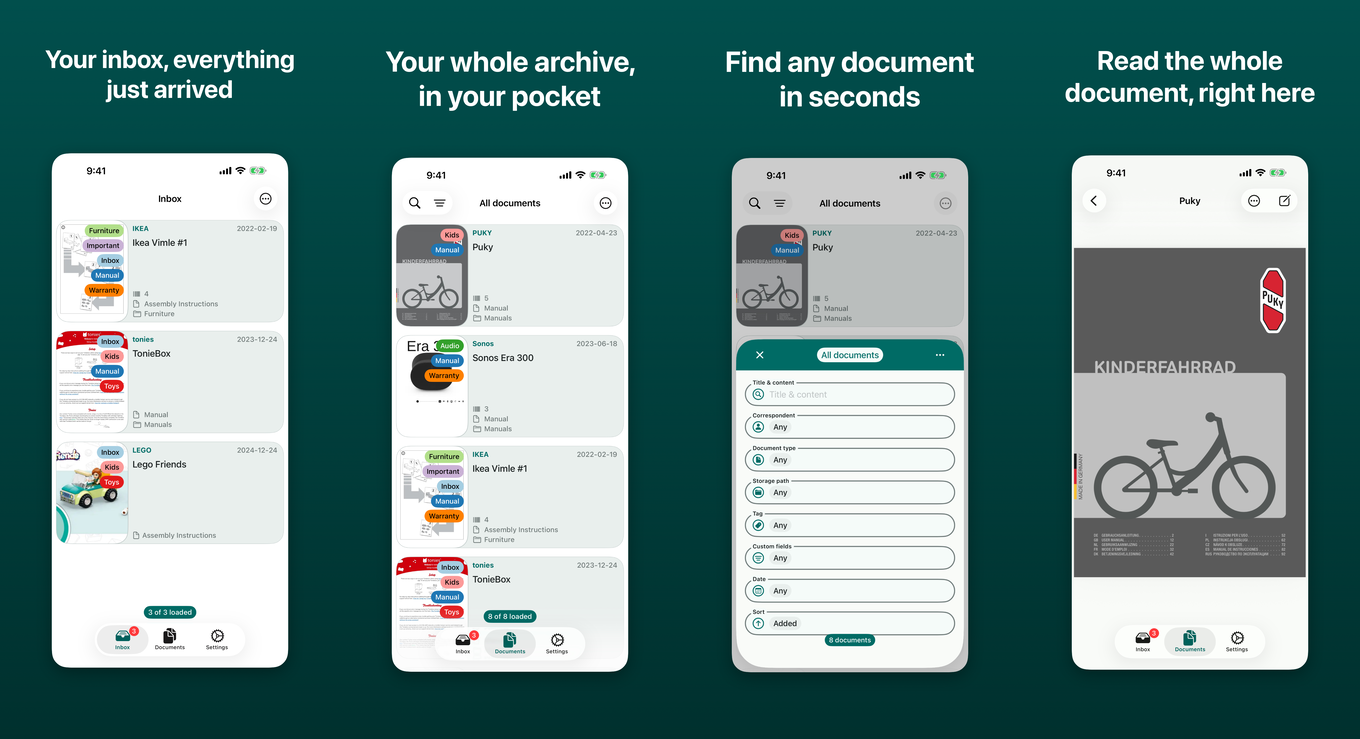
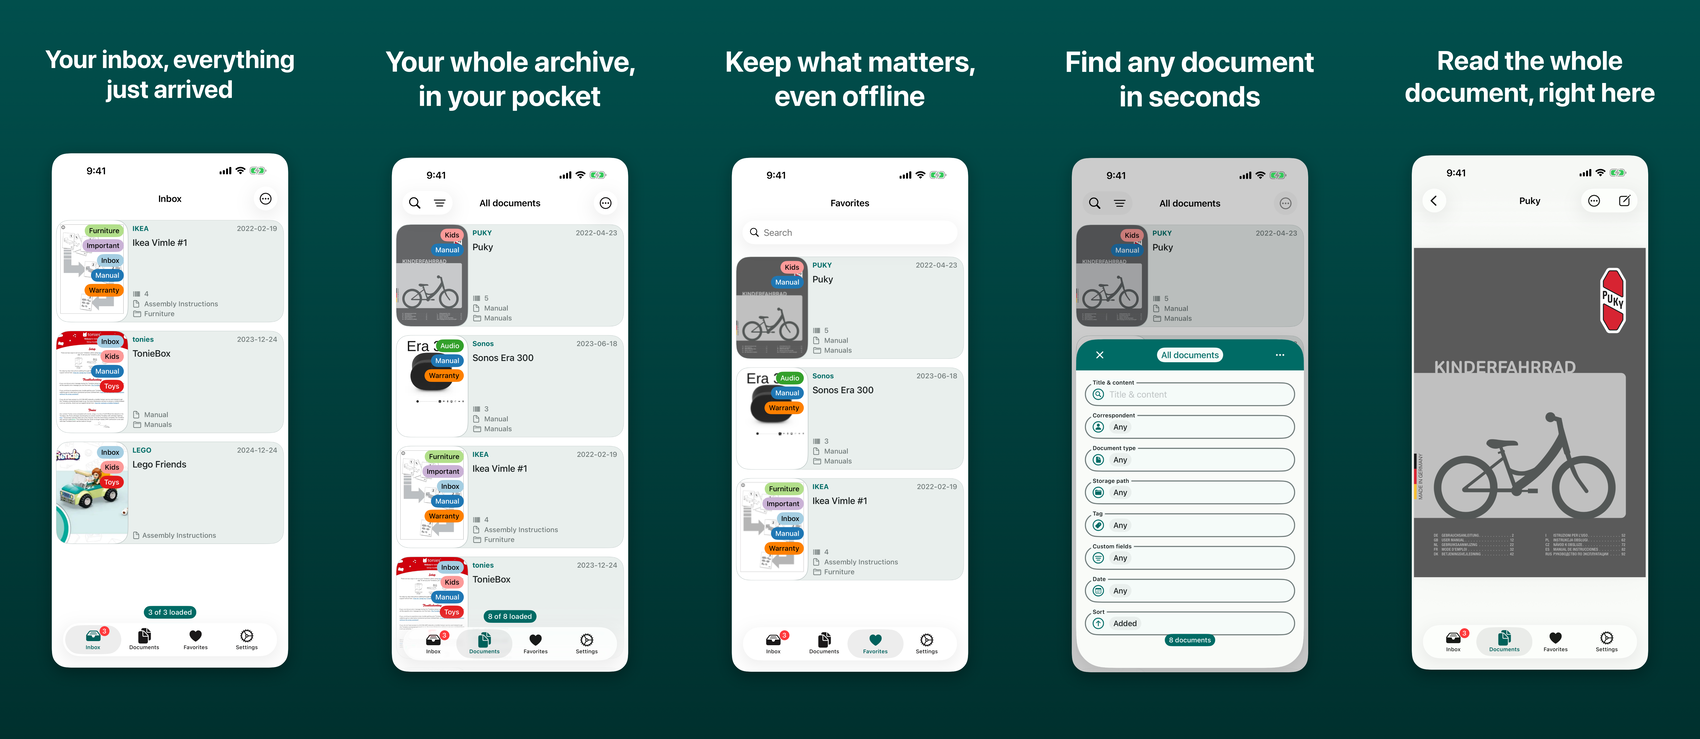
docs: re-shoot the strip, and put Favorites in it
The captures behind it showed a three-tab bar, which stopped being true the
moment Favorites existed. Re-recorded, and the strip now carries five panels
rather than four: the new one is the offline list, placed third so the image
says what arrives, what is kept, what is stored offline, how it is found,
and what reading one looks like.

Claude-Session: https://claude.ai/code/session_01DnK1fMSLGBuerL4tXCuRpp

diff --git a/index.html b/index.html
@@ -18,7 +18,7 @@
       <a class="badge" href="https://testflight.apple.com/join/3CM21m1n">Join the TestFlight beta</a>
       <a class="badge" href="https://github.com/plu/less-paper">Source on GitHub</a>
     </div>
-    <img class="shot" src="assets/screenshots.png" alt="The inbox, the document list, the search filters, and a document open for reading">
+    <img class="shot" src="assets/screenshots.png" alt="The inbox, the document list, offline favorites, the search filters, and a document open for reading">
   </div>
 </header>
 
